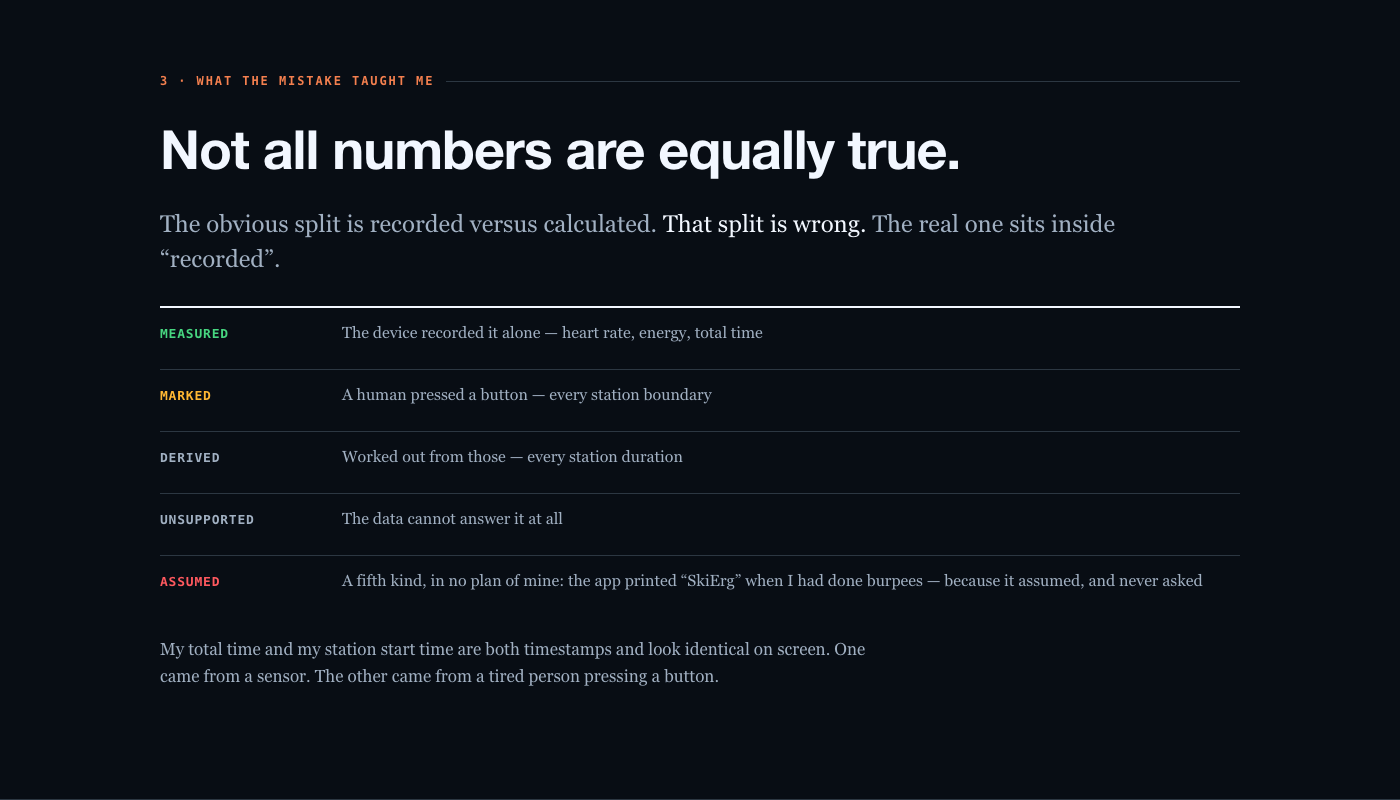
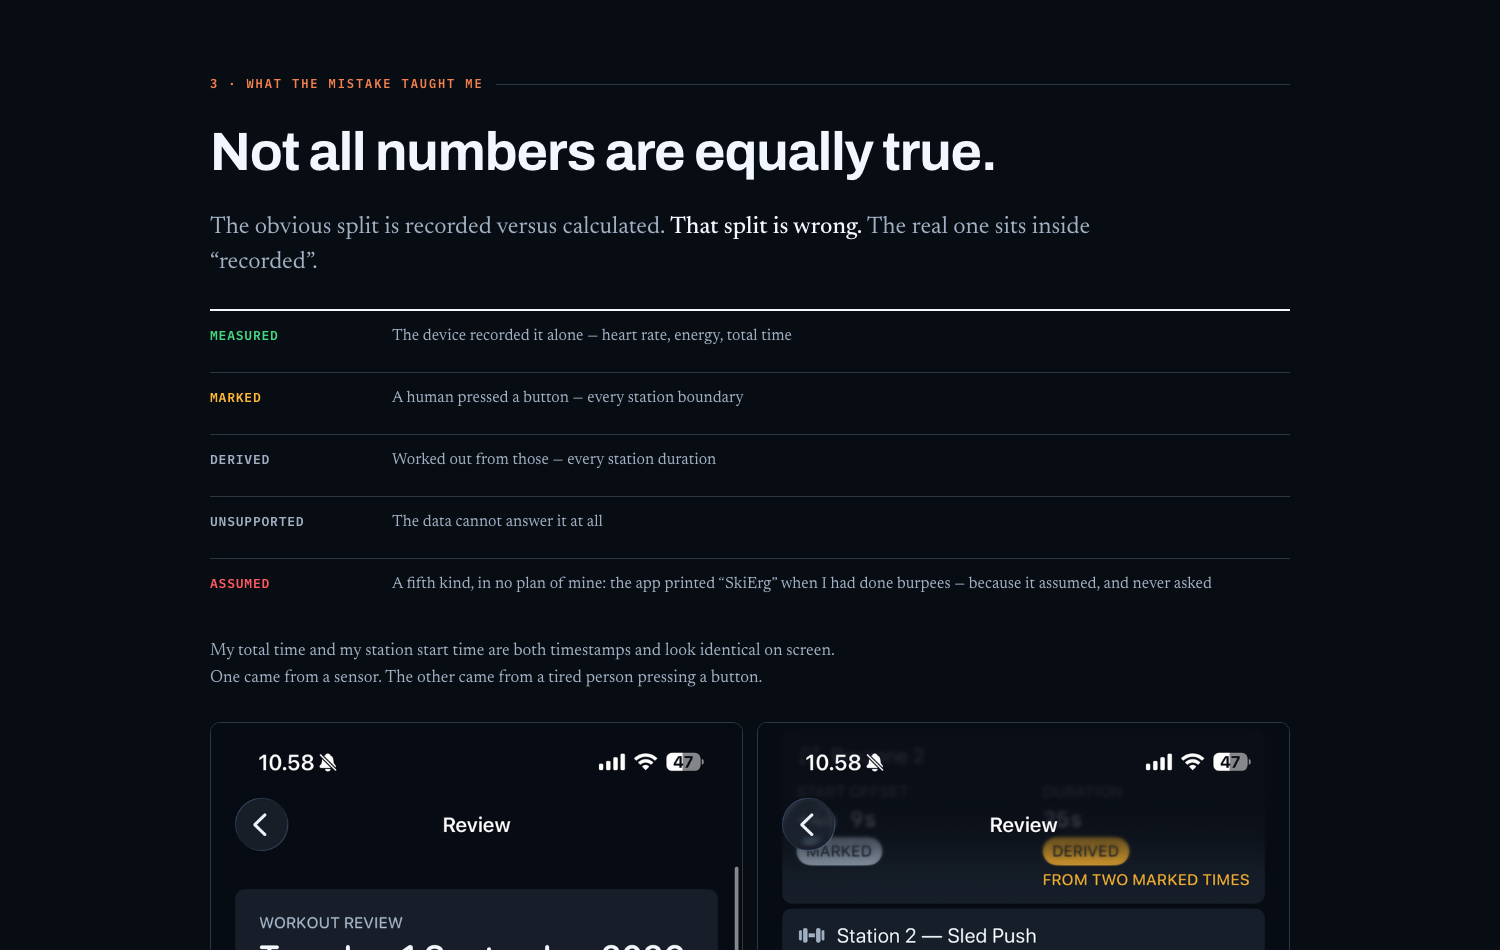
Embed the device screenshots as the deck's tangible evidence
Six chosen from the 45 imported. The review pair comes from the real
1 September session rather than the 19-second desk test, so the segment
durations on screen are 47s, 34s, 36s and 1m30s instead of 1s.

Two slots changed subject to match what the screenshots actually prove.
The recovery and atomicity photographs are not among the imported files,
so those plates now carry Apple's own marker list - five markers at
0.000 duration, two of them 73.555 and 73.888, which is the 0.333 second
double press visible in Apple's own app - and the 4900% humidity, which
is MEASURED data that is complete, well-formed and false.

diff --git a/design/talking-points.html b/design/talking-points.html
@@ -530,14 +530,14 @@
       <h2>Not claims. Screens.</h2>
       <div class="plates">
         <div class="plate">
-          <div class="shot">{{IMG:recovery-different.png}}</div>
-          <span class="cap">E2.0b &middot; Recovery</span>
-          <span class="say">Call 1 recovered. Call 2 failed against call 1&rsquo;s own session. <strong>Recovery is not idempotent</strong> &mdash; which solved a mystery left open in Cycle&nbsp;1.</span>
+          <div class="shot">{{IMG:apple-markers.png}}</div>
+          <span class="cap">E6.0 &middot; Apple&rsquo;s own app</span>
+          <span class="say">Five markers, every duration <span class="mono">0.000</span>. Two of them at <span class="mono">73.555</span> and <span class="mono">73.888</span> &mdash; <strong>0.333 seconds apart, both kept, neither flagged.</strong></span>
         </div>
         <div class="plate">
-          <div class="shot">{{IMG:atomic-disk.png}}</div>
-          <span class="cap">E2.2b &middot; Atomicity</span>
-          <span class="say">After a deliberate crash: <span class="mono">real file present and valid, temp file absent</span>. Nothing half-written survived.</span>
+          <div class="shot">{{IMG:humidity-4900.png}}</div>
+          <span class="cap">E5.1 &middot; MEASURED is not safe</span>
+          <span class="say">Apple&rsquo;s own metadata: <span class="mono">HKWeatherHumidity 4900&nbsp;%</span>. Complete, well-formed, plausible to any checker, and false.</span>
         </div>
         <div class="plate">
           <div class="shot">{{IMG:agree-events.png}}</div>
